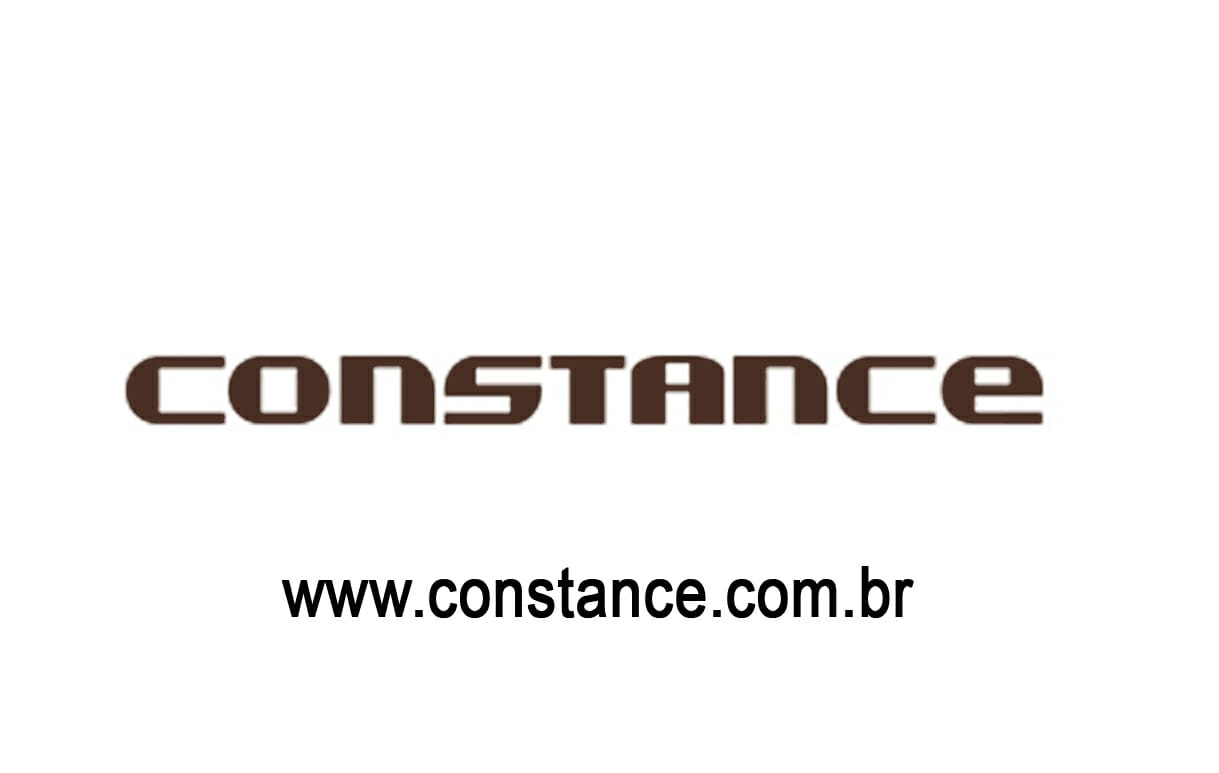
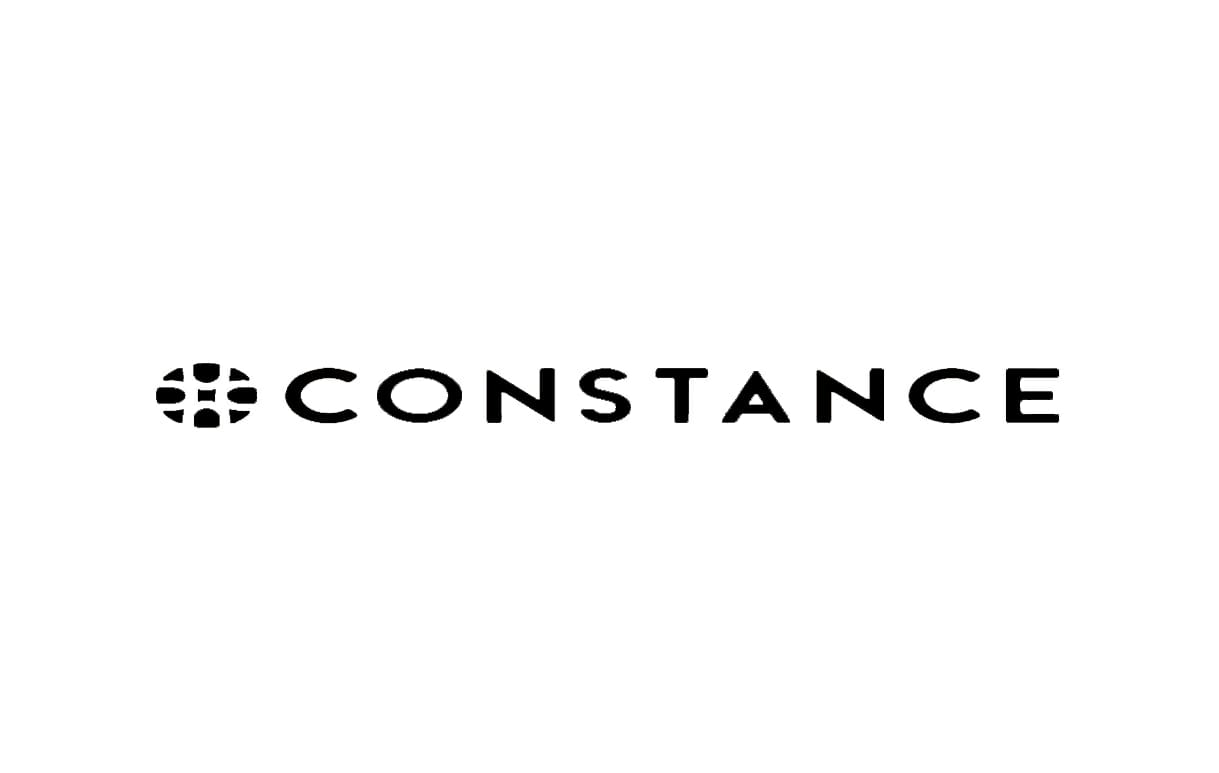
add contance and other party

Changed region(s): [[0.0935, 0.4347, 0.8728, 0.5589], [0.2182, 0.7451, 0.7482, 0.8072]]

diff --git a/script.js b/script.js
@@ -441,7 +441,7 @@ function PopupMsg(title, cat, closeMenuMobile = 0, classCloseMenu) {
   if (title === "revista") {
     popupCategory.style.backgroundColor = "black";
   }
-
+    
   /*if (title === 'parceiros' || title === 'pitagoras-propaganda') {
     ObjectsContainer.Hero.StyleAttributes('height: 1100px !important; visibility:hidden !important')
     ObjectsContainer.PopUpMsgContainer.StyleAttributes('height: 1100px !important;')
@@ -576,9 +576,14 @@ function PopupMsg(title, cat, closeMenuMobile = 0, classCloseMenu) {
                           </div>
                           <div class="images-container-parceiros">
                             <a href="#" onClick="PopupMsg('pitagoras-propaganda', 'pitagoras-propaganda',1,1)"><img src="./media/parceiros/parceiro1.jpg" alt="parceiro"></a>
-                            <a href="#"><img src="./media/parceiros/parceiro2.jpg" alt="parceiro"></a>
+                            <a href="#" onClick="PopupMsg('constance-propaganda', 'constance-propaganda', 1, 1)"><img src="./media/parceiros/parceiro2.jpg" alt="parceiro"></a>
                             <img src="./media/parceiros/parceiro3.jpg" alt="parceiro">
                             <img src="./media/parceiros/parceiro5.jpg" alt="parceiro">
+                            <img src="./media/parceiros/parceiro7.jpg" alt="parceiro">
+                            <img src="./media/parceiros/parceiro8.jpg" alt="parceiro">
+                            <img src="./media/parceiros/parceiro9.jpg" alt="parceiro">
+                            <img src="./media/parceiros/parceiro11.jpg" alt="parceiro">
+                            <img src="./media/parceiros/parceiro12.jpg" alt="parceiro">
                           </div>
                         </div>
                       `;
@@ -610,31 +615,31 @@ function PopupMsg(title, cat, closeMenuMobile = 0, classCloseMenu) {
                               <option>Selecione um estado...</option>
                               <option value="ac">AC</option>
                               <option value="al">AL</option>
-                              <option value="ap">AP</option>
-                              <option value="am">AM</option>
+                              <!--<option value="ap">AP</option>-->
+                              <!--<option value="am">AM</option>-->
                               <option value="ba">BA</option>
                               <option value="ce">CE</option>
-                              <option value="df">DF</option>
+                              <!--<option value="df">DF</option>-->
                               <option value="es">ES</option>
                               <option value="go">GO</option>
                               <option value="ma">MA</option>
-                              <option value="mt">MT</option>
-                              <option value="ms">MS</option>
+                              <!--<option value="mt">MT</option>-->
+                              <!--<option value="ms">MS</option>-->
                               <option value="mg">MG</option>
                               <option value="pa">PA</option>
                               <option value="pb">PB</option>
                               <option value="pr">PR</option>
                               <option value="pe">PE</option>
-                              <option value="pi">PI</option>
-                              <option value="rj">RJ</option>
+                              <!--<option value="pi">PI</option>-->
+                              <!--<option value="rj">RJ</option>-->
                               <option value="rn">RN</option>
-                              <option value="rs">RS</option>
-                              <option value="ro">RO</option>
-                              <option value="rr">RR</option>
-                              <option value="sc">SC</option>
-                              <option value="sp">SP</option>
-                              <option value="se">SE</option>
-                              <option value="to">TO</option>
+                              <!--<option value="rs">RS</option>-->
+                              <!--<option value="ro">RO</option>-->
+                              <!--<option value="rr">RR</option>-->
+                              <!--<option value="sc">SC</option>-->
+                              <!--<option value="sp">SP</option>-->
+                              <!--<option value="se">SE</option>-->
+                              <!--<option value="to">TO</option>-->
                             </select>
                               <div class="list-pitagoras-states"></div>
                             </div>
@@ -648,17 +653,15 @@ function PopupMsg(title, cat, closeMenuMobile = 0, classCloseMenu) {
       popupCategory.style.backgroundColor = "white";
       containerImgs.innerHTML = `
                         <div class="container-propaganda">
-                          <div class="images-main">
-                          <iframe width="560" height="315" src="https://www.youtube.com/embed/s5sBoWJ41vM?autoplay=1&controls=0" frameborder="0" allow="accelerometer; autoplay; encrypted-media; gyroscope; picture-in-picture" allowfullscreen></iframe>
+                          <div class="images-main flex-d-column">
+                            <a href="https://www.constance.com.br"> <img class="logo-cost" src='https://www.constance.com.br/skin/frontend/constance-v2018/default/images/constance-nova-marca.png' ></a>
+                           <iframe src="https://www.youtube.com/embed/s5sBoWJ41vM?autoplay=1&amp;mute=1&amp;controls=0&amp;loop=1&amp;rel=0&amp;version=3&amp;playlist=diGLn0kUPXk" frameborder="0" allow="accelerometer; autoplay; encrypted-media; gyroscope; picture-in-picture" allowfullscreen=""></iframe>
                           </div>
                           <div class="txts-propaganda">
-                            <div class="container-text-propa"><p>Os alunos da Brazil Model Agency tem ofertas especiais na Constance. Confira já!</p><div>
+                            <div id="const-link"><a href="https://www.constance.com.br/"><b>www.constance.com.br</b></a></div>
+                            <div class="container-text-propa"><p>Vá em uma loja constance de sua preferência com sua carteirinha de estudante Brazil Model Agency ou Faculdade Pitágoras e confira as vantagens que só você tem.</p><div>
                             
-                            <div class="contact-watsapp">
-                            <div class="contact-watsapp-icons">
-                                <a href="https://api.whatsapp.com/send?phone=5531994530485"><img src="./media/IconSocial/IwatsappColor.png"></a>
-                                <p>Whatsapp</p>
-                              </div>
+                            
                             
                               <div class="list-pitagoras-states"></div>
                               </div>
@@ -667,6 +670,29 @@ function PopupMsg(title, cat, closeMenuMobile = 0, classCloseMenu) {
 
                         </div>
                       `;
+                      
+      break;
+      case "fha-propaganda":
+      popupCategory.style.backgroundColor = "white";
+      containerImgs.innerHTML = `
+                        <div class="container-propaganda">
+                            <a href="https://www.constance.com.br"> <img class="logo-cost" src='https://www.constance.com.br/skin/frontend/constance-v2018/default/images/constance-nova-marca.png' ></a>
+                           <iframe src="https://www.youtube.com/embed/s5sBoWJ41vM?autoplay=1&amp;mute=1&amp;controls=0&amp;loop=1&amp;rel=0&amp;version=3&amp;playlist=diGLn0kUPXk" frameborder="0" allow="accelerometer; autoplay; encrypted-media; gyroscope; picture-in-picture" allowfullscreen=""></iframe>
+                          </div>
+                          <div class="txts-propaganda">
+                            <div id="const-link"><a href="https://www.constance.com.br/"><b>www.constance.com.br</b></a></div>
+                            <div class="container-text-propa"><p>Vá em uma loja constance de sua preferência com sua carteirinha de estudante Brazil Model Agency ou Faculdade Pitágoras e confira as vantagens que só você tem.</p><div>
+                            
+                            
+                            
+                              <div class="list-pitagoras-states"></div>
+                              </div>
+                            </div>
+                          </div>
+
+                        </div>
+                      `;
+                      
       break;
     default:
       break;

diff --git a/css/rootStyle.css b/css/rootStyle.css
@@ -3922,6 +3922,11 @@ input::placeholder {
   height: fit-content;
 }
 
+.flex-d-column{
+  display: flex;
+  flex-direction: column;
+}
+
 .slider-propaganda{
   height: 500px;
   width: 500px;
@@ -4047,4 +4052,28 @@ input::placeholder {
 .texts-parceiros-main #title-Pmain{
   font-size: 18px;
   font-weight: bold;
+}
+
+.images-main iframe{
+  width: 700px;
+  height: 400px;
+}
+
+.logo-cost{
+  margin-bottom: 10px;
+  width: 200px;
+  height:auto;
+}
+
+#const-link{
+  width: 100%;
+  display: flex;
+  justify-content: center;
+  margin-top: 10px;
+  font-size: 16px;
+  color: black;
+}
+
+#const-link a:visited{
+  color: black;
 }

diff --git a/css/responsiveStyle.css b/css/responsiveStyle.css
@@ -852,6 +852,11 @@
     width: 100px;
     height: auto;
   }
+
+  .images-main iframe{
+    width: 100%;
+    height: 350px;
+  }
 }
 
 @media screen and (max-width: 980px) {
